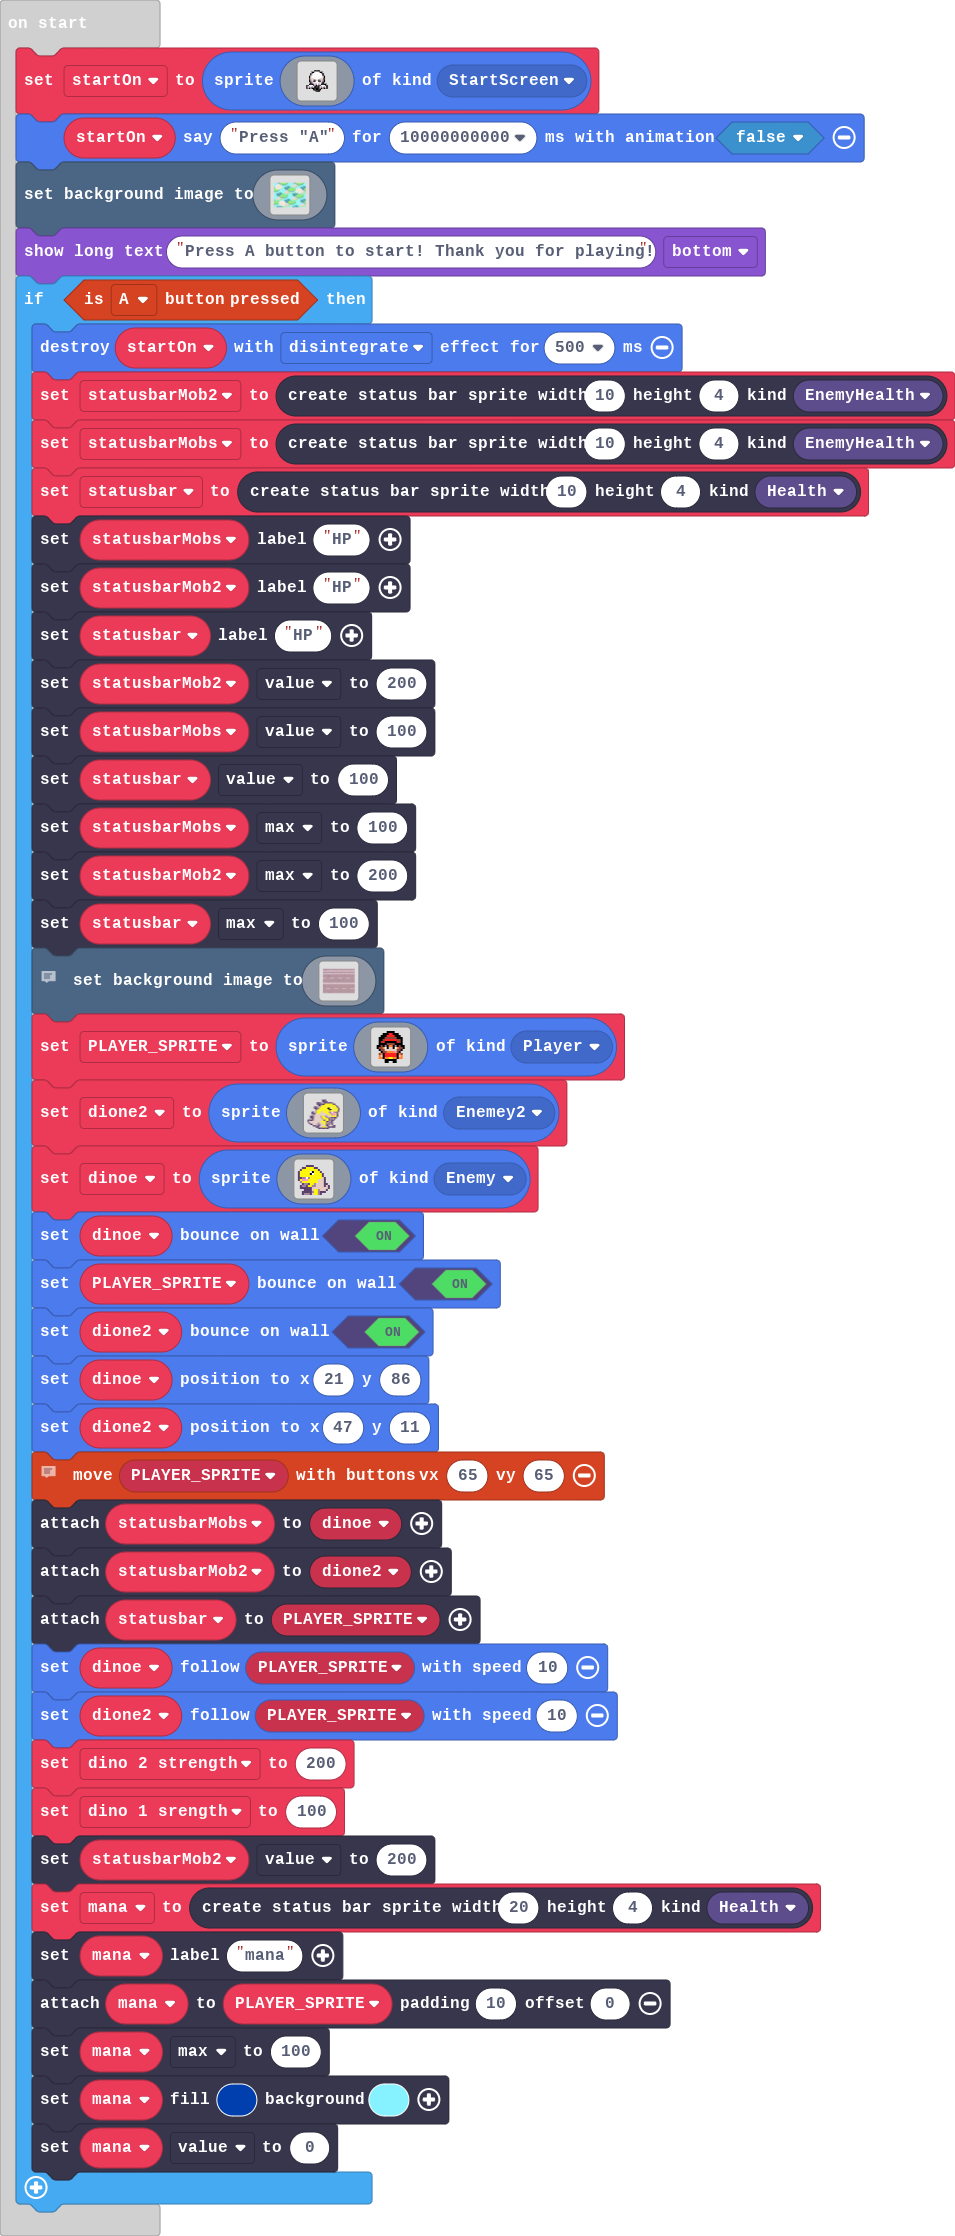
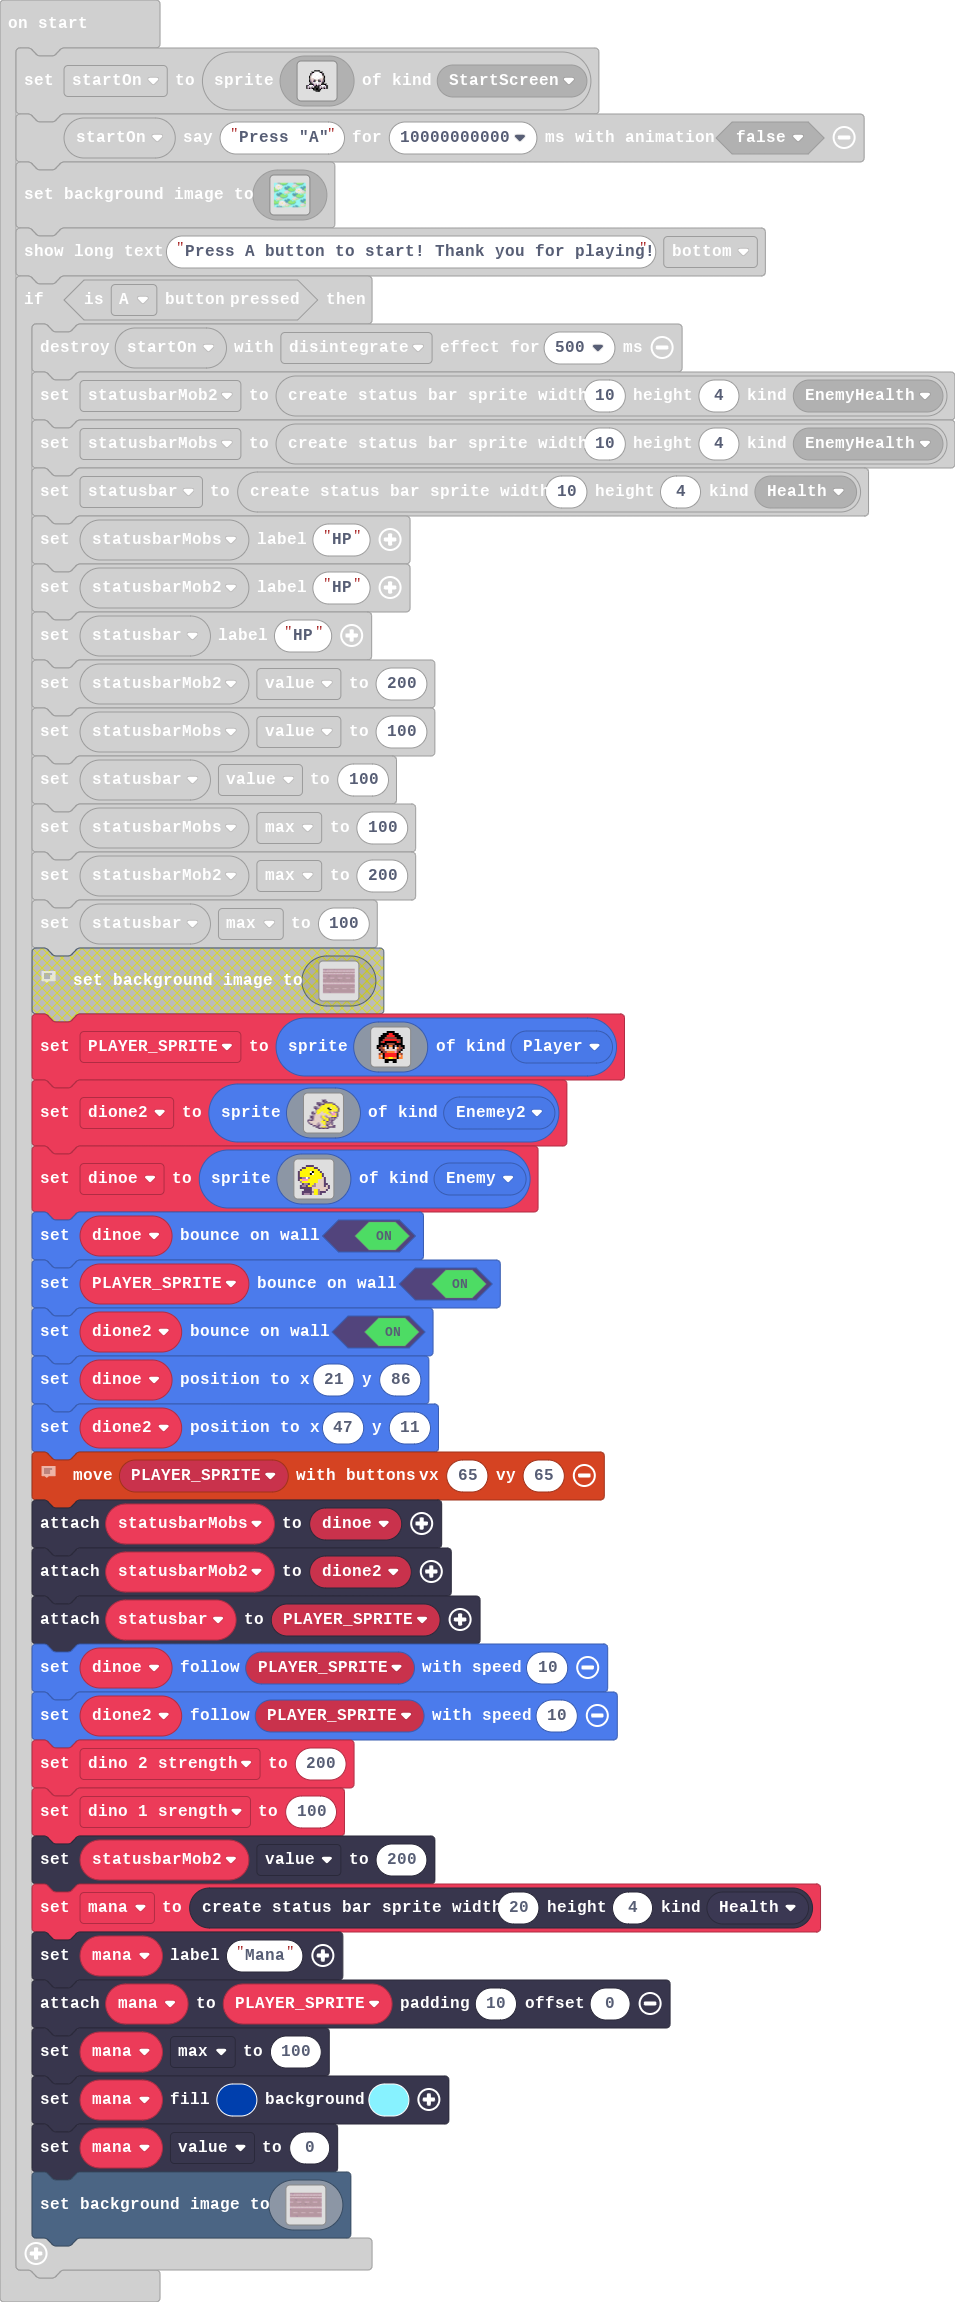
Added start screen and more

diff --git a/tilemap.g.ts b/tilemap.g.ts
@@ -87,6 +87,97 @@ namespace myTiles {
 2 2 2 2 2 2 2 2 2 2 2 2 2 2 2 2 
 2 2 2 2 2 2 2 2 2 2 2 2 2 2 2 2 
 `, [myTiles.transparency16,sprites.castle.tileGrass2,sprites.castle.tilePath5], TileScale.Sixteen);
+            case "level4":
+            case "level4":return tiles.createTilemap(hex`1000100000000000000000000000000000000000000000000000000000000000000000000000000000000000000000000000000000000000000000000000000000000000000000000000000000000000000000000000000000000000000000000000000000000000000000000000000000000000000000000000000000000000000000000000000000000000000000000000000000000000000000000000000000000000000000000000000000000000000000000000000000000000000000000000000000000000000000000000000000000000000000000000000000000000000000000000000000000000000000000000000000000000000000000000000000000000`, img`
+. . . . . . . . . . . . . . . . 
+. . . . . . . . . . . . . . . . 
+. . . . . . . . . . . . . . . . 
+. . . . . . . . . . . . . . . . 
+. . . . . . . . . . . . . . . . 
+. . . . . . . . . . . . . . . . 
+. . . . . . . . . . . . . . . . 
+. . . . . . . . . . . . . . . . 
+. . . . . . . . . . . . . . . . 
+. . . . . . . . . . . . . . . . 
+. . . . . . . . . . . . . . . . 
+. . . . . . . . . . . . . . . . 
+. . . . . . . . . . . . . . . . 
+. . . . . . . . . . . . . . . . 
+. . . . . . . . . . . . . . . . 
+. . . . . . . . . . . . . . . . 
+`, [myTiles.transparency16], TileScale.Sixteen);
+            case "level5":
+            case "level5":return tiles.createTilemap(hex`1000100000000000000000000000000000000000000000000000000000000000000000000000000000000000000000000000000000000000000000000000000000000000000000000000000000000000000000000000000000000000000000000000000000000000000000000000000000000000000000000000000000000000000000000000000000000000000000000000000000000000000000000000000000000000000000000000000000000000000000000000000000000000000000000000000000000000000000000000000000000000000000000000000000000000000000000000000000000000000000000000000000000000000000000000000000000000`, img`
+. . . . . . . . . . . . . . . . 
+. . . . . . . . . . . . . . . . 
+. . . . . . . . . . . . . . . . 
+. . . . . . . . . . . . . . . . 
+. . . . . . . . . . . . . . . . 
+. . . . . . . . . . . . . . . . 
+. . . . . . . . . . . . . . . . 
+. . . . . . . . . . . . . . . . 
+. . . . . . . . . . . . . . . . 
+. . . . . . . . . . . . . . . . 
+. . . . . . . . . . . . . . . . 
+. . . . . . . . . . . . . . . . 
+. . . . . . . . . . . . . . . . 
+. . . . . . . . . . . . . . . . 
+. . . . . . . . . . . . . . . . 
+. . . . . . . . . . . . . . . . 
+`, [myTiles.transparency16], TileScale.Sixteen);
+            case "level6":
+            case "level6":return tiles.createTilemap(hex`1000100000000000000000000000000000000000000000000000000000000000000000000000000000000000000000000000000000000000000000000000000000000000000000000000000000000000000000000000000000000000000000000000000000000000000000000000000000000000000000000000000000000000000000000000000000000000000000000000000000000000000000000000000000000000000000000000000000000000000000000000000000000000000000000000000000000000000000000000000000000000000000000000000000000000000000000000000000000000000000000000000000000000000000000000000000000000`, img`
+. . . . . . . . . . . . . . . . 
+. . . . . . . . . . . . . . . . 
+. . . . . . . . . . . . . . . . 
+. . . . . . . . . . . . . . . . 
+. . . . . . . . . . . . . . . . 
+. . . . . . . . . . . . . . . . 
+. . . . . . . . . . . . . . . . 
+. . . . . . . . . . . . . . . . 
+. . . . . . . . . . . . . . . . 
+. . . . . . . . . . . . . . . . 
+. . . . . . . . . . . . . . . . 
+. . . . . . . . . . . . . . . . 
+. . . . . . . . . . . . . . . . 
+. . . . . . . . . . . . . . . . 
+. . . . . . . . . . . . . . . . 
+. . . . . . . . . . . . . . . . 
+`, [myTiles.transparency16], TileScale.Sixteen);
+            case "level7":
+            case "level7":return tiles.createTilemap(hex`1000100000000000000000000000000000000000000000000000000000000000000000000000000000000000000000000000000000000000000000000000000000000000000000000000000000000000000000000000000000000000000000000000000000000000000000000000000000000000000000000000000000000000000000000000000000000000000000000000000000000000000000000000000000000000000000000000000000000000000000000000000000000000000000000000000000000000000000000000000000000000000000000000000000000000000000000000000000000000000000000000000000000000000000000000000000000000`, img`
+. . . . . . . . . . . . . . . . 
+. . . . . . . . . . . . . . . . 
+. . . . . . . . . . . . . . . . 
+. . . . . . . . . . . . . . . . 
+. . . . . . . . . . . . . . . . 
+. . . . . . . . . . . . . . . . 
+. . . . . . . . . . . . . . . . 
+. . . . . . . . . . . . . . . . 
+. . . . . . . . . . . . . . . . 
+. . . . . . . . . . . . . . . . 
+. . . . . . . . . . . . . . . . 
+. . . . . . . . . . . . . . . . 
+. . . . . . . . . . . . . . . . 
+. . . . . . . . . . . . . . . . 
+. . . . . . . . . . . . . . . . 
+. . . . . . . . . . . . . . . . 
+`, [myTiles.transparency16], TileScale.Sixteen);
+            case "thebackgroud":
[1 lines of base64/hex data omitted]
+. . . . . . . . . . . 2 
+. . . . . . . . . . . 2 
+. . . . . . . . . . . 2 
+. . . . . . . . . . . 2 
+. . . . . . . . . . . 2 
+. . . . . . . . . . . 2 
+. . . . . . . . . . . 2 
+. . . . . . . . . . . 2 
+. 2 2 2 2 2 2 2 2 2 2 2 
+. . . . . . . . . . . 2 
+. . . . . . . . . . . 2 
+. . . . . . . . . . . 2 
+`, [myTiles.transparency16,sprites.castle.tileGrass2,sprites.castle.tileGrass1,sprites.castle.tileGrass3], TileScale.Sixteen);
         }
         return null;
     })

diff --git a/images.g.ts b/images.g.ts
@@ -805,6 +805,25 @@ dddddd7999999999999999999ddddd7711111dd11111dd77111111777777dddddddddd7777777777
 ........................
 ........................
 `;
+            case "image15":
+            case "myImage5":return img`
+. . . . . . . . . . . . . . . . 
+. . . . . . . . . . . . . . . . 
+. . . . . . . . . . . . . . . . 
+. . . . . . . . . . . . . . . . 
+. . . . . . . . . . . . . . . . 
+. . . . . . . . . . . . . . . . 
+. . . . . . . . . . . . . . . . 
+. . . . . . . . . . . . . . . . 
+. . . . . . . . . . . . . . . . 
+. . . . . . . . . . . . . . . . 
+. . . . . . . . . . . . . . . . 
+. . . . . . . . . . . . . . . . 
+. . . . . . . . . . . . . . . . 
+. . . . . . . . . . . . . . . . 
+. . . . . . . . . . . . . . . . 
+. . . . . . . . . . . . . . . . 
+`;
         }
         return null;
     })

diff --git a/main.ts b/main.ts
@@ -146,7 +146,6 @@ if (controller.A.isPressed()) {
     statusbarMobs.max = 100
     statusbarMob2.max = 200
     statusbar.max = 100
-    // Rendering section
     scene.setBackgroundImage(assets.image`Level1`)
     PLAYER_SPRITE = sprites.create(assets.image`Player`, SpriteKind.Player)
     dione2 = sprites.create(assets.image`myImage3`, SpriteKind.Enemey2)
@@ -167,7 +166,7 @@ if (controller.A.isPressed()) {
     dino_1_srength = 100
     statusbarMob2.value = 200
     mana = statusbars.create(20, 4, StatusBarKind.Health)
-    mana.setLabel("mana")
+    mana.setLabel("Mana")
     mana.attachToSprite(PLAYER_SPRITE, 10, 0)
     mana.max = 100
     mana.setColor(8, 9)
